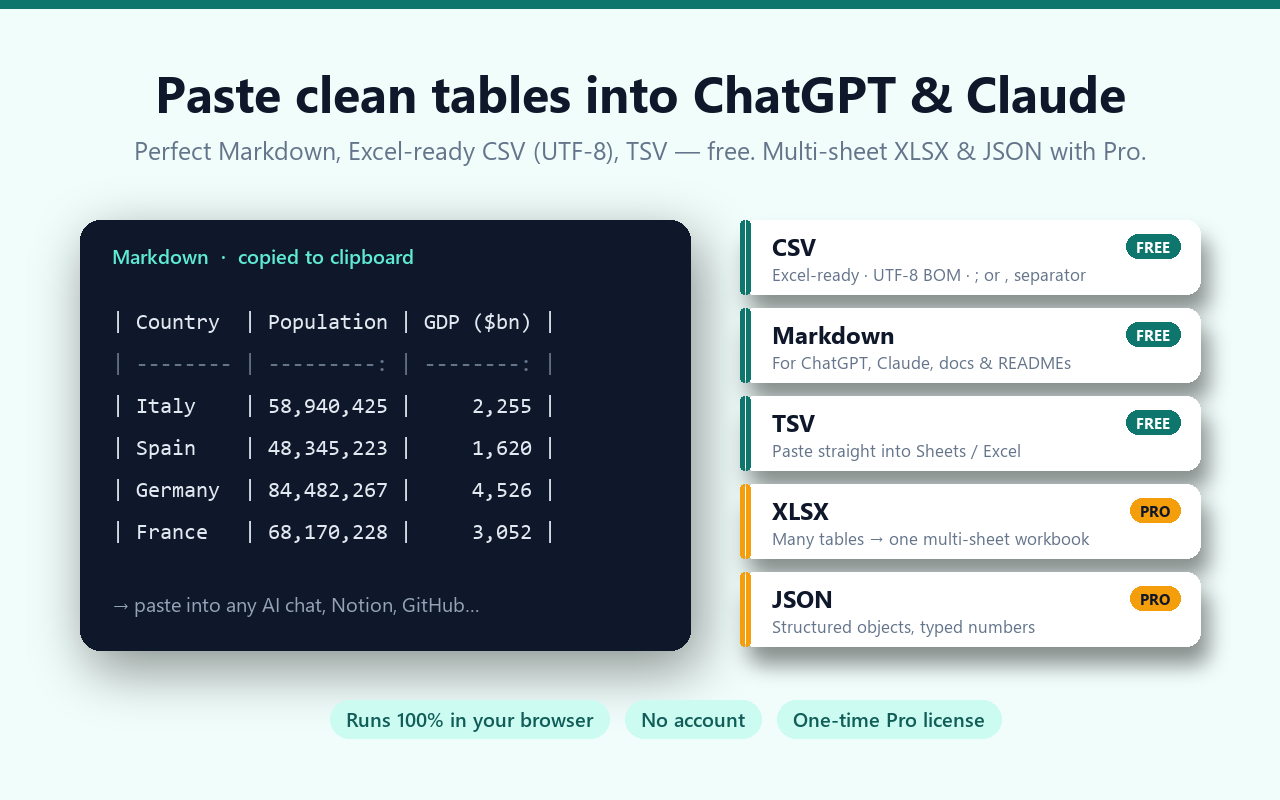
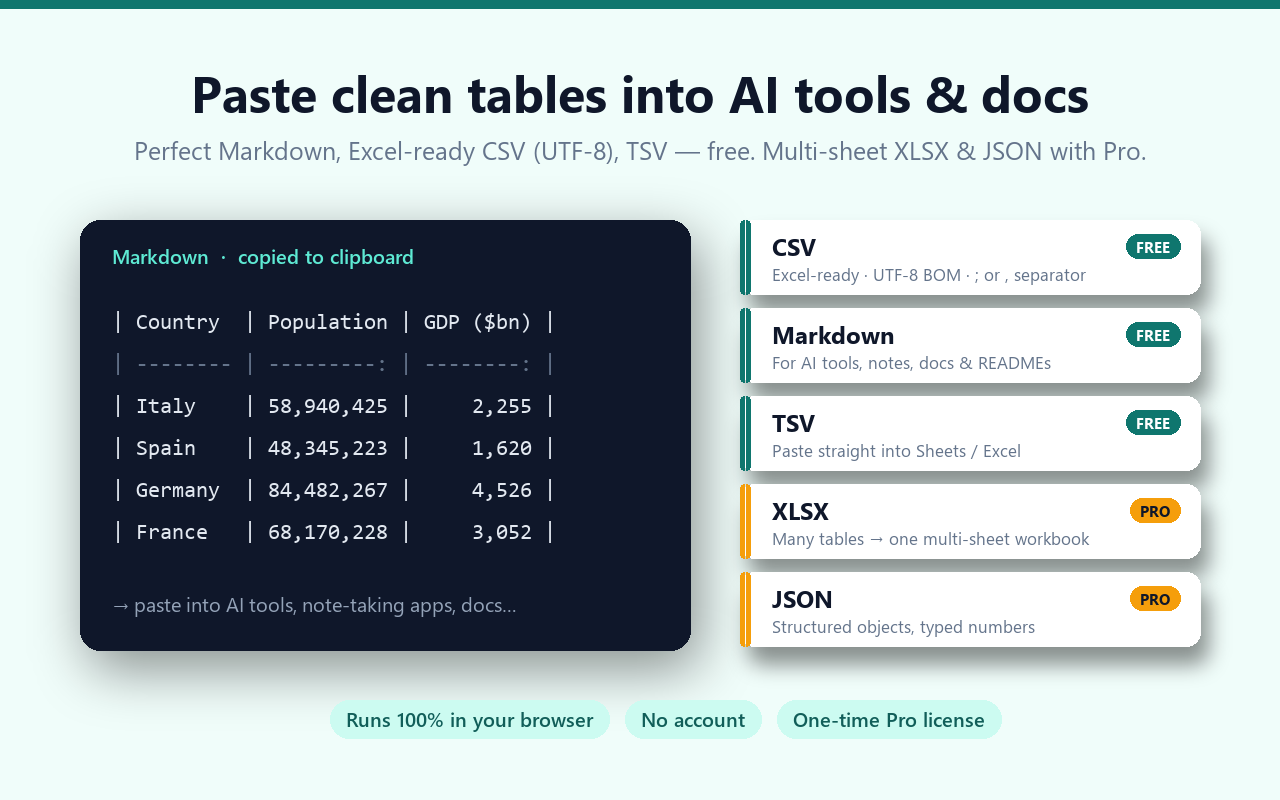
Remove third-party product names and audience lists from store copy
Chrome Web Store rejected the submission for keyword stuffing (Yellow
Argon). Replace mentions of ChatGPT, Claude, Gemini, Notion, Obsidian and
GitHub with generic functional wording, and drop the lists of user
categories, across the locale generator and messages.json (6 languages),
DEPLOYMENT_GUIDE store descriptions, promo image, landing page and README.

Changed region(s): [[0.125, 0.0938, 0.875, 0.1562], [0.1562, 0.75, 0.4062, 0.7812], [0.625, 0.4375, 0.8438, 0.4688]]

diff --git a/docs/index.html b/docs/index.html
@@ -4,7 +4,7 @@
   <meta charset="utf-8">
   <meta name="viewport" content="width=device-width, initial-scale=1">
   <title>TableSnap — Web Table Extractor to Excel, CSV &amp; Markdown</title>
-  <meta name="description" content="TableSnap is a free Chrome & Edge extension that extracts any web table or list in one click: Excel-ready CSV, Markdown for ChatGPT & Claude, TSV. 100% local, no sign-up.">
+  <meta name="description" content="TableSnap is a free Chrome & Edge extension that extracts any web table or list in one click: Excel-ready CSV, Markdown for AI tools and docs, TSV. 100% local, no sign-up.">
   <meta property="og:title" content="TableSnap — Web tables to Excel, CSV & Markdown in one click">
   <meta property="og:description" content="Extract any HTML table or list. Free CSV/Markdown/TSV, Pro multi-sheet XLSX & JSON. Runs 100% in your browser.">
   <meta property="og:image" content="assets/promo_1.png">
@@ -131,7 +131,7 @@
       <div class="hero-grid">
         <div>
           <h1>Any web table → <em>Excel, CSV &amp; Markdown</em> in one click.</h1>
-          <p class="lead">TableSnap finds every table and list on the page. Download clean CSV for Excel, or copy perfect Markdown to paste into ChatGPT, Claude, Notion or GitHub.</p>
+          <p class="lead">TableSnap finds every table and list on the page. Download clean CSV for Excel, or copy perfect Markdown to paste into AI tools, note-taking apps and documentation.</p>
           <div class="cta">
             <!-- PROVISIONAL: replace "#" with the real store URLs after publication -->
             <a class="btn btn-light" href="#" data-provisional>Chrome Web Store — coming soon</a>
@@ -169,11 +169,11 @@
   <section>
     <div class="wrap">
       <h2>Built for people who live in spreadsheets and AI chats</h2>
-      <p class="sub">Analysts, researchers, marketers, students: stop copy-pasting broken tables.</p>
+      <p class="sub">Stop copy-pasting broken tables: get clean CSV, Excel, JSON and Markdown in one click.</p>
       <div class="grid3">
         <div class="card"><h3>Smart detection</h3><p>HTML tables, ARIA data grids and structured lists, with merged cells (colspan/rowspan) expanded correctly. Hover to highlight them on the page.</p></div>
         <div class="card"><h3>Excel-ready CSV</h3><p>UTF-8 with BOM so accents never break, correct quoting of commas and line breaks, and the <code>;</code> separator Excel expects in Italy, Germany, France, Spain and Brazil.</p></div>
-        <div class="card"><h3>Markdown for AI</h3><p>One click copies a clean Markdown table — the format ChatGPT and Claude read best. TSV copy is there for Google Sheets.</p></div>
+        <div class="card"><h3>Markdown for AI</h3><p>One click copies a clean Markdown table — a format AI tools and documentation read cleanly. TSV copy is there for Google Sheets.</p></div>
         <div class="card"><h3>Multi-sheet XLSX <small>Pro</small></h3><p>Select several tables and get one Excel workbook, one sheet per table, bold frozen header, real numeric cells.</p></div>
         <div class="card"><h3>Data cleaning <small>Pro</small></h3><p>Remove empty rows, normalize spaces, turn “€ 1.234,50” into 1234.50, and keep or drop rows with a regex.</p></div>
         <div class="card"><h3>Per-site presets <small>Pro</small></h3><p>Your cleaning settings are remembered for each website, so recurring exports take one click.</p></div>

diff --git a/scripts/generate_locales.py b/scripts/generate_locales.py
@@ -33,12 +33,12 @@ MESSAGES: dict[str, tuple[str, dict[str, str]]] = {
     }),
     "extShortName": ("Short name (<=12 chars)", {lang: "TableSnap" for lang in LANGS}),
     "extDescription": ("Store summary (<=132 chars)", {
-        "en": "Extract any web table or list in 1 click: CSV for Excel, Markdown for ChatGPT & Claude, TSV. 100% local & private.",
-        "it": "Estrai tabelle e liste web in 1 clic: CSV per Excel, Markdown per ChatGPT e Claude, TSV. 100% locale e privato.",
-        "es": "Extrae tablas y listas web en 1 clic: CSV para Excel, Markdown para ChatGPT y Claude, TSV. 100% local y privado.",
-        "de": "Web-Tabellen & Listen mit 1 Klick: CSV für Excel, Markdown für ChatGPT & Claude, TSV. 100 % lokal & privat.",
-        "fr": "Extrayez tableaux et listes web en 1 clic : CSV pour Excel, Markdown pour ChatGPT et Claude, TSV. 100 % local et privé.",
-        "pt": "Extraia tabelas e listas da web em 1 clique: CSV para Excel, Markdown para ChatGPT e Claude, TSV. 100% local e privado.",
+        "en": "Extract HTML tables and lists in 1 click: CSV for Excel, Markdown, TSV; Pro adds XLSX and JSON. 100% local & private.",
+        "it": "Estrai tabelle HTML e liste in 1 clic: CSV per Excel, Markdown, TSV; Pro aggiunge XLSX e JSON. 100% locale e privato.",
+        "es": "Extrae tablas HTML y listas en 1 clic: CSV para Excel, Markdown, TSV; Pro añade XLSX y JSON. 100% local y privado.",
+        "de": "HTML-Tabellen & Listen mit 1 Klick: CSV für Excel, Markdown, TSV; Pro ergänzt XLSX und JSON. 100 % lokal & privat.",
+        "fr": "Extrayez tableaux HTML et listes en 1 clic : CSV pour Excel, Markdown, TSV ; Pro ajoute XLSX et JSON. 100 % local et privé.",
+        "pt": "Extraia tabelas HTML e listas em 1 clique: CSV para Excel, Markdown, TSV; Pro adiciona XLSX e JSON. 100% local e privado.",
     }),
     "actionTitle": ("Toolbar button tooltip", {
         "en": "TableSnap: extract tables from this page",
@@ -93,12 +93,12 @@ MESSAGES: dict[str, tuple[str, dict[str, str]]] = {
         "fr": "Télécharger le CSV (prêt pour Excel, UTF-8)", "pt": "Baixar CSV (pronto para Excel, UTF-8)",
     }),
     "titleMarkdown": ("Button tooltip", {
-        "en": "Copy as Markdown (paste into ChatGPT, Claude, Notion…)",
-        "it": "Copia in Markdown (da incollare in ChatGPT, Claude, Notion…)",
-        "es": "Copiar como Markdown (para ChatGPT, Claude, Notion…)",
-        "de": "Als Markdown kopieren (für ChatGPT, Claude, Notion…)",
-        "fr": "Copier en Markdown (pour ChatGPT, Claude, Notion…)",
-        "pt": "Copiar como Markdown (para ChatGPT, Claude, Notion…)",
+        "en": "Copy as Markdown (for AI tools, note-taking apps and docs)",
+        "it": "Copia in Markdown (per strumenti AI, app di note e documentazione)",
+        "es": "Copiar como Markdown (para herramientas de IA, apps de notas y documentación)",
+        "de": "Als Markdown kopieren (für KI-Tools, Notiz-Apps und Dokumentation)",
+        "fr": "Copier en Markdown (pour outils d'IA, applis de notes et documentation)",
+        "pt": "Copiar como Markdown (para ferramentas de IA, apps de notas e documentação)",
     }),
     "titleTsv": ("Button tooltip", {
         "en": "Copy as TSV (paste into Excel / Google Sheets)",

diff --git a/scripts/generate_assets.py b/scripts/generate_assets.py
@@ -310,7 +310,7 @@ def promo_formats(path: Path):
     img = Image.new("RGBA", (W, H), (240, 253, 250, 255))
     d = ImageDraw.Draw(img)
     d.rectangle([0, 0, W, 8], fill=TEAL_700)
-    d.text((W / 2, 92), "Paste clean tables into ChatGPT & Claude", font=font("bold", 50), fill=INK, anchor="mm")
+    d.text((W / 2, 92), "Paste clean tables into AI tools & docs", font=font("bold", 50), fill=INK, anchor="mm")
     d.text((W / 2, 150), "Perfect Markdown, Excel-ready CSV (UTF-8), TSV — free. Multi-sheet XLSX & JSON with Pro.",
            font=font("regular", 25), fill=SLATE, anchor="mm")
 
@@ -329,12 +329,12 @@ def promo_formats(path: Path):
     mono = font("mono", 22)
     for i, line in enumerate(md):
         d.text((112, 312 + i * 42), line, font=mono, fill=(226, 232, 240) if i != 1 else SLATE)
-    d.text((112, 590), "→ paste into any AI chat, Notion, GitHub…", font=font("regular", 20), fill=(148, 163, 184))
+    d.text((112, 590), "→ paste into AI tools, note-taking apps, docs…", font=font("regular", 20), fill=(148, 163, 184))
 
     # format cards
     formats = [
         ("CSV", "Excel-ready · UTF-8 BOM · ; or , separator", "FREE", TEAL_700),
-        ("Markdown", "For ChatGPT, Claude, docs & READMEs", "FREE", TEAL_700),
+        ("Markdown", "For AI tools, notes, docs & READMEs", "FREE", TEAL_700),
         ("TSV", "Paste straight into Sheets / Excel", "FREE", TEAL_700),
         ("XLSX", "Many tables → one multi-sheet workbook", "PRO", AMBER),
         ("JSON", "Structured objects, typed numbers", "PRO", AMBER),

diff --git a/DEPLOYMENT_GUIDE.md b/DEPLOYMENT_GUIDE.md
@@ -192,12 +192,12 @@ Poi in LemonSqueezy **Settings → Webhooks → +**: URL = indirizzo `https://ta
 ## 9. Testi SEO per gli store (copia e incolla)
 
 Nome e riassunto provengono già da `_locales` (lo store li legge dal pacchetto); la descrizione dettagliata va incollata a mano per ogni lingua.
-Parole chiave mirate: *table extractor, web table to excel, html table to csv, copy table markdown, web scraper tables, export table chatgpt, scrape table, table capture*.
+Parole chiave mirate: *table extractor, web table to excel, html table to csv, copy table markdown, web scraper tables, export table json, scrape table, table capture*.
 
 ### 🇬🇧 English (en)
 
 **Name:** TableSnap — Web Table & Data Extractor to Excel / Markdown
-**Summary:** Extract any web table or list in 1 click: CSV for Excel, Markdown for ChatGPT & Claude, TSV. 100% local & private.
+**Summary:** Extract HTML tables and lists in 1 click: CSV for Excel, Markdown, TSV; Pro adds XLSX and JSON. 100% local & private.
 
 **Description:**
 ```
@@ -210,7 +210,7 @@ TableSnap turns any table on any website into clean data in one click — no cop
 
 ★ FREE EXPORTS
 • CSV for Excel — UTF-8 with BOM (accents never break), correct quoting of commas and line breaks, automatic ";" separator for European Excel
-• Copy as Markdown — the perfect format to paste tables into ChatGPT, Claude, Gemini, Notion, Obsidian or GitHub
+• Copy as Markdown — clean tables to paste into AI tools, note-taking apps, documentation and READMEs
 • Copy as TSV — paste straight into Google Sheets or Excel
 
 ★ TABLESNAP PRO (one-time payment, no subscription)
@@ -222,13 +222,13 @@ TableSnap turns any table on any website into clean data in one click — no cop
 ★ PRIVATE BY DESIGN
 Everything runs 100% inside your browser. TableSnap has no servers, no analytics and no tracking. It reads a page only when you click its icon (activeTab permission) and never asks to “read all your websites”.
 
-Perfect for analysts, researchers, students, marketers, journalists and anyone who feeds data to AI assistants or spreadsheets.
+TableSnap extracts HTML tables and structured lists into CSV, Excel, JSON and Markdown — nothing more, nothing less.
 ```
 
 ### 🇮🇹 Italiano (it)
 
 **Nome:** TableSnap — Estrattore di Tabelle Web per Excel / Markdown
-**Riassunto:** Estrai tabelle e liste web in 1 clic: CSV per Excel, Markdown per ChatGPT e Claude, TSV. 100% locale e privato.
+**Riassunto:** Estrai tabelle HTML e liste in 1 clic: CSV per Excel, Markdown, TSV; Pro aggiunge XLSX e JSON. 100% locale e privato.
 
 **Descrizione:**
 ```
@@ -241,7 +241,7 @@ TableSnap trasforma qualsiasi tabella di qualsiasi sito in dati puliti con un cl
 
 ★ ESPORTAZIONI GRATUITE
 • CSV per Excel: UTF-8 con BOM (accenti sempre corretti), virgolette e a capo gestiti, separatore ";" automatico per l'Excel italiano
-• Copia in Markdown: il formato ideale per incollare tabelle in ChatGPT, Claude, Gemini, Notion, Obsidian o GitHub
+• Copia in Markdown: tabelle pulite da incollare in strumenti AI, app per appunti, documentazione e README
 • Copia in TSV: incolla direttamente in Fogli Google o Excel
 
 ★ TABLESNAP PRO (pagamento unico, nessun abbonamento)
@@ -253,13 +253,13 @@ TableSnap trasforma qualsiasi tabella di qualsiasi sito in dati puliti con un cl
 ★ PRIVACY PER PROGETTO
 Tutto avviene al 100% nel tuo browser. TableSnap non ha server, analytics né tracciamento. Legge una pagina solo quando clicchi la sua icona (permesso activeTab) e non chiede mai di “leggere tutti i tuoi siti web”.
 
-Ideale per analisti, ricercatori, studenti, marketer, giornalisti e per chi lavora con fogli di calcolo e assistenti AI.
+TableSnap estrae tabelle HTML e liste strutturate in CSV, Excel, JSON e Markdown, senza passaggi inutili.
 ```
 
 ### 🇪🇸 Español (es)
 
 **Nombre:** TableSnap — Extractor de Tablas Web a Excel / Markdown
-**Resumen:** Extrae tablas y listas web en 1 clic: CSV para Excel, Markdown para ChatGPT y Claude, TSV. 100% local y privado.
+**Resumen:** Extrae tablas HTML y listas en 1 clic: CSV para Excel, Markdown, TSV; Pro añade XLSX y JSON. 100% local y privado.
 
 **Descripción:**
 ```
@@ -272,7 +272,7 @@ TableSnap convierte cualquier tabla de cualquier web en datos limpios con un cli
 
 ★ EXPORTACIONES GRATUITAS
 • CSV para Excel: UTF-8 con BOM (los acentos nunca se rompen), comas y saltos de línea bien entrecomillados, separador ";" automático para Excel en español
-• Copiar como Markdown: el formato perfecto para pegar tablas en ChatGPT, Claude, Gemini, Notion, Obsidian o GitHub
+• Copiar como Markdown: tablas limpias para pegar en herramientas de IA, apps de notas, documentación y README
 • Copiar como TSV: pega directamente en Hojas de cálculo de Google o Excel
 
 ★ TABLESNAP PRO (pago único, sin suscripción)
@@ -284,13 +284,13 @@ TableSnap convierte cualquier tabla de cualquier web en datos limpios con un cli
 ★ PRIVACIDAD POR DISEÑO
 Todo funciona al 100% dentro de tu navegador. TableSnap no tiene servidores, analíticas ni rastreo. Solo lee una página cuando haces clic en su icono (permiso activeTab) y nunca pide “leer todos tus sitios web”.
 
-Ideal para analistas, investigadores, estudiantes, marketers, periodistas y para quien trabaja con hojas de cálculo y asistentes de IA.
+TableSnap extrae tablas HTML y listas estructuradas a CSV, Excel, JSON y Markdown, sin pasos innecesarios.
 ```
 
 ### 🇩🇪 Deutsch (de)
 
 **Name:** TableSnap — Web-Tabellen-Extraktor für Excel / Markdown
-**Kurzbeschreibung:** Web-Tabellen & Listen mit 1 Klick: CSV für Excel, Markdown für ChatGPT & Claude, TSV. 100 % lokal & privat.
+**Kurzbeschreibung:** HTML-Tabellen & Listen mit 1 Klick: CSV für Excel, Markdown, TSV; Pro ergänzt XLSX und JSON. 100 % lokal & privat.
 
 **Beschreibung:**
 ```
@@ -303,7 +303,7 @@ TableSnap verwandelt jede Tabelle auf jeder Website mit einem Klick in saubere D
 
 ★ KOSTENLOSE EXPORTE
 • CSV für Excel: UTF-8 mit BOM (Umlaute bleiben korrekt), richtige Behandlung von Kommas und Zeilenumbrüchen, automatisches „;“-Trennzeichen für deutsches Excel
-• Als Markdown kopieren: das ideale Format für Tabellen in ChatGPT, Claude, Gemini, Notion, Obsidian oder GitHub
+• Als Markdown kopieren: saubere Tabellen zum Einfügen in KI-Tools, Notiz-Apps, Dokumentationen und READMEs
 • Als TSV kopieren: direkt in Google Tabellen oder Excel einfügen
 
 ★ TABLESNAP PRO (Einmalzahlung, kein Abo)
@@ -315,13 +315,13 @@ TableSnap verwandelt jede Tabelle auf jeder Website mit einem Klick in saubere D
 ★ DATENSCHUTZ AB WERK
 Alles läuft zu 100 % in deinem Browser. TableSnap hat keine Server, keine Analytics und kein Tracking. Eine Seite wird nur gelesen, wenn du auf das Symbol klickst (activeTab-Berechtigung) – nie „alle Websites lesen“.
 
-Ideal für Analysten, Forschende, Studierende, Marketer, Journalisten und alle, die mit Tabellenkalkulationen und KI-Assistenten arbeiten.
+TableSnap extrahiert HTML-Tabellen und strukturierte Listen als CSV, Excel, JSON und Markdown – ohne Umwege.
 ```
 
 ### 🇫🇷 Français (fr)
 
 **Nom :** TableSnap — Extracteur de tableaux web vers Excel / Markdown
-**Résumé :** Extrayez tableaux et listes web en 1 clic : CSV pour Excel, Markdown pour ChatGPT et Claude, TSV. 100 % local et privé.
+**Résumé :** Extrayez tableaux HTML et listes en 1 clic : CSV pour Excel, Markdown, TSV ; Pro ajoute XLSX et JSON. 100 % local et privé.
 
 **Description :**
 ```
@@ -334,7 +334,7 @@ TableSnap transforme n'importe quel tableau de n'importe quel site en données p
 
 ★ EXPORTS GRATUITS
 • CSV pour Excel : UTF-8 avec BOM (les accents restent intacts), virgules et retours à la ligne correctement protégés, séparateur « ; » automatique pour l'Excel français
-• Copier en Markdown : le format idéal pour coller des tableaux dans ChatGPT, Claude, Gemini, Notion, Obsidian ou GitHub
+• Copier en Markdown : des tableaux propres à coller dans des outils d'IA, applis de notes, documentations et README
 • Copier en TSV : collez directement dans Google Sheets ou Excel
 
 ★ TABLESNAP PRO (paiement unique, sans abonnement)
@@ -346,13 +346,13 @@ TableSnap transforme n'importe quel tableau de n'importe quel site en données p
 ★ CONFIDENTIEL PAR CONCEPTION
 Tout fonctionne à 100 % dans votre navigateur. TableSnap n'a ni serveur, ni statistiques, ni pistage. Il ne lit une page que lorsque vous cliquez sur son icône (autorisation activeTab) et ne demande jamais à « lire tous vos sites ».
 
-Idéal pour les analystes, chercheurs, étudiants, marketeurs, journalistes et tous ceux qui travaillent avec des tableurs et des assistants IA.
+TableSnap extrait les tableaux HTML et les listes structurées en CSV, Excel, JSON et Markdown, sans étape superflue.
 ```
 
 ### 🇵🇹 Português (pt)
 
 **Nome:** TableSnap — Extrator de Tabelas Web para Excel / Markdown
-**Resumo:** Extraia tabelas e listas da web em 1 clique: CSV para Excel, Markdown para ChatGPT e Claude, TSV. 100% local e privado.
+**Resumo:** Extraia tabelas HTML e listas em 1 clique: CSV para Excel, Markdown, TSV; Pro adiciona XLSX e JSON. 100% local e privado.
 
 **Descrição:**
 ```
@@ -365,7 +365,7 @@ O TableSnap transforma qualquer tabela de qualquer site em dados limpos com um c
 
 ★ EXPORTAÇÕES GRATUITAS
 • CSV para Excel: UTF-8 com BOM (acentos sempre corretos), vírgulas e quebras de linha bem tratadas, separador ";" automático para o Excel em português
-• Copiar como Markdown: o formato perfeito para colar tabelas no ChatGPT, Claude, Gemini, Notion, Obsidian ou GitHub
+• Copiar como Markdown: tabelas limpas para colar em ferramentas de IA, apps de notas, documentação e README
 • Copiar como TSV: cole direto no Planilhas Google ou no Excel
 
 ★ TABLESNAP PRO (pagamento único, sem assinatura)
@@ -377,7 +377,7 @@ O TableSnap transforma qualquer tabela de qualquer site em dados limpos com um c
 ★ PRIVACIDADE POR PADRÃO
 Tudo funciona 100% dentro do seu navegador. O TableSnap não tem servidores, análises nem rastreamento. Ele só lê uma página quando você clica no ícone (permissão activeTab) e nunca pede para “ler todos os seus sites”.
 
-Ideal para analistas, pesquisadores, estudantes, profissionais de marketing, jornalistas e quem trabalha com planilhas e assistentes de IA.
+O TableSnap extrai tabelas HTML e listas estruturadas para CSV, Excel, JSON e Markdown, sem etapas desnecessárias.
 ```
 
 ---

diff --git a/README.md b/README.md
@@ -1,6 +1,6 @@
 # TableSnap — Web Table & Data Extractor to Excel / Markdown
 
-Chrome / Edge Manifest V3 extension, 100% client-side. Detects tables, ARIA grids and lists on the active page and exports them as Excel-ready CSV, Markdown (for ChatGPT/Claude) or TSV for free; Pro (LemonSqueezy one-time license) adds multi-sheet XLSX, JSON, data cleaning and per-site presets.
+Chrome / Edge Manifest V3 extension, 100% client-side. Detects tables, ARIA grids and lists on the active page and exports them as Excel-ready CSV, Markdown (for AI tools, notes and docs) or TSV for free; Pro (LemonSqueezy one-time license) adds multi-sheet XLSX, JSON, data cleaning and per-site presets.
 
 ```
 src/                    extension (the only folder that gets packaged)
